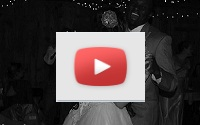
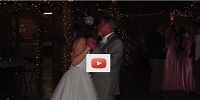
fixed the photos for the youtube links. Also fixed the issue with the menu jumping near the top on menu selection

diff --git a/index.html b/index.html
@@ -366,6 +366,28 @@
         var ua = navigator.userAgent;
         var isKindle = /Kindle/i.test(ua) || /Silk/i.test(ua) || /KFTT/i.test(ua) || /KFOT/i.test(ua) || /KFJWA/i.test(ua) || /KFJWI/i.test(ua) || /KFSOWI/i.test(ua) || /KFTHWA/i.test(ua) || /KFTHWI/i.test(ua) || /KFAPWA/i.test(ua) || /KFAPWI/i.test(ua);
 
+        //*******************************************************************************
+        //
+        // I am changing the href of the menu-item buttons (HOME, ABOUT, MY SERVICES, Etc..)
+        // so that the application does not jump to the respective sections.
+        // On kindle it's ok to jump to these sections because it shows one long page.
+        // However on a regular device like a pc or samsung galaxy doing so jumps near the top
+        // but not all the way and causes it to hide the main menu, making it look akward.
+        //
+        //  Fernando 4/20/2014
+        //********************************************************************************************************
+        function clearHrefWhenNotKindle(){
+
+            if(isKindle === false){
+                var elements = document.getElementsByClassName('menu-item'); //get all menu-items
+                var i = 0;
+
+                for(i = 0; i < elements.length; i++){
+                    elements[i].href = elements[i].href + "-"; //add a dash (e.g. href="#about-" instead of href="#about" to avoid jumping locations when showing and hiding elements
+                }
+            }
+        }
+
 
         function show(elementToShow) {
             if(isKindle === true)
@@ -394,6 +416,7 @@
             document.getElementById('gallery-menu').classList.remove("selected");
         }
 
+        clearHrefWhenNotKindle();
         show('home');
     </script>
 
